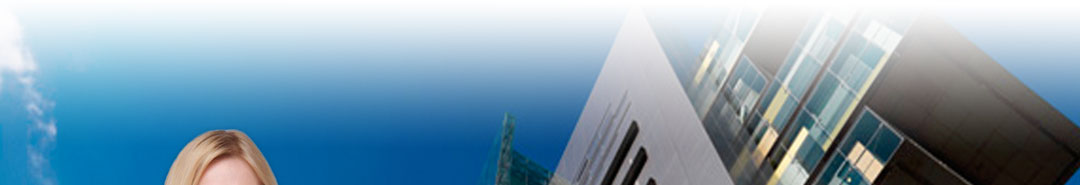
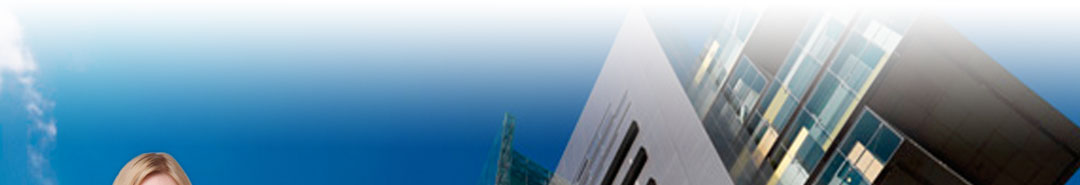
Smaller header

Changed region(s): [[0.0917, 0.7027, 0.275, 1.0]]

diff --git a/wp-content/themes/linen_pro/stylesheets/two.css b/wp-content/themes/linen_pro/stylesheets/two.css
@@ -18,14 +18,14 @@
 #navigation ul li a { padding: 2px 3px 2px 3px; background:rgb(255,255,255); background: transparent\9; background:rgba(255,255,255,0.5); filter:progid:DXImageTransform.Microsoft.gradient(startColorstr=#66ffffff,endColorstr=#66ffffff); zoom: 1;}
 #navigation ul li a:hover {text-decoration: underline;}
 #navigation { border:none; height:10px; }
-#featured {	padding: 0 0 25px 0;	margin: 0;	position: relative; clear:left;	z-index: 0;  /*background-color:#e7eaea;*/ background:url(../images/header-content.jpg) no-repeat; height:169px;}
-.container {width: 100%;	height: 300px;	position: relative;}
+#featured {	padding: 0 0 25px 0;	margin: 0;	position: relative; clear:left;	z-index: 0;  /*background-color:#e7eaea;*/ background:url(../images/header-content.jpg) no-repeat; height:139px;}
+.container {width: 100%;	height: 121px;	position: relative; outline: 1px solid red;}
 #slides {	width: 100%;	position: absolute;	top: 0;	left: 0;}
-.slides_container {	width: 100%;	height: 169px;	overflow: hidden;	position: relative; }
+.slides_container {	width: 100%;	height: 139px;	overflow: hidden;	position: relative; }
 #slides div.slide {	position: absolute;	top: 25px;	right:25px;	width: 100%;	z-index: 100;}
 #slides div.show-slide {	display: block;}
 .slide img {position: absolute;	z-index: 50;	width: 652px;	height: 353px;	top: -20px;	left:55px;	display:block;}
-.slide-content {z-index: 100;	position: absolute; right:-25px;	width: 560px;	height:32px;	padding:5px 20px 10px 20px; background-color:#ffffff; /*box-shadow: 3px 3px 3px #888;*/ margin-top:64px; opacity:0.9;filter:alpha(opacity=90);}
+.slide-content {z-index: 100;	position: absolute; right:-25px;	width: 560px;	height:32px;	padding:5px 20px 10px 20px; background-color:#ffffff; /*box-shadow: 3px 3px 3px #888;*/ margin-top:38px; opacity:0.9;filter:alpha(opacity=90);}
 .slide-content h2 {	color:#666;	font-size: 1.4em;	font-family: Helvetica, Arial, sans-serif;	font-weight: normal;	text-shadow: 0 1px 0 #222;}
 .slide-content p {font-size: 1.35em;	line-height: 1.5em;	margin: 0 0 10px 0; color:#383838;}
 /*.slide-content p span.top {background:url(/wp-content/themes/linen_pro/images/top-quote.gif) no-repeat; height:40px; width:46px;}
